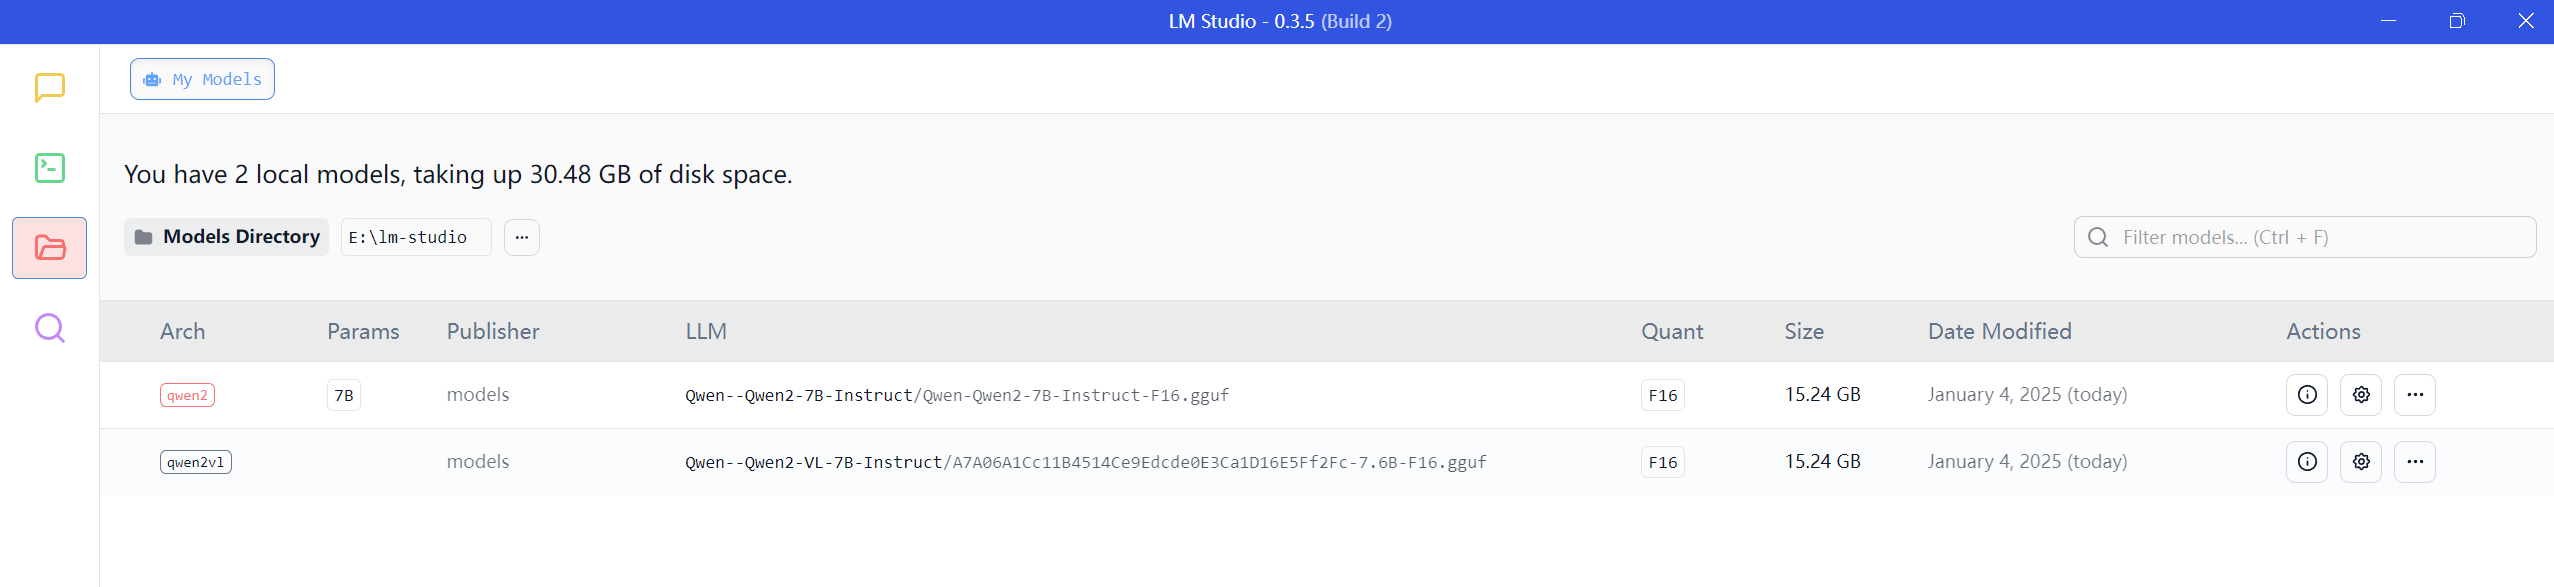
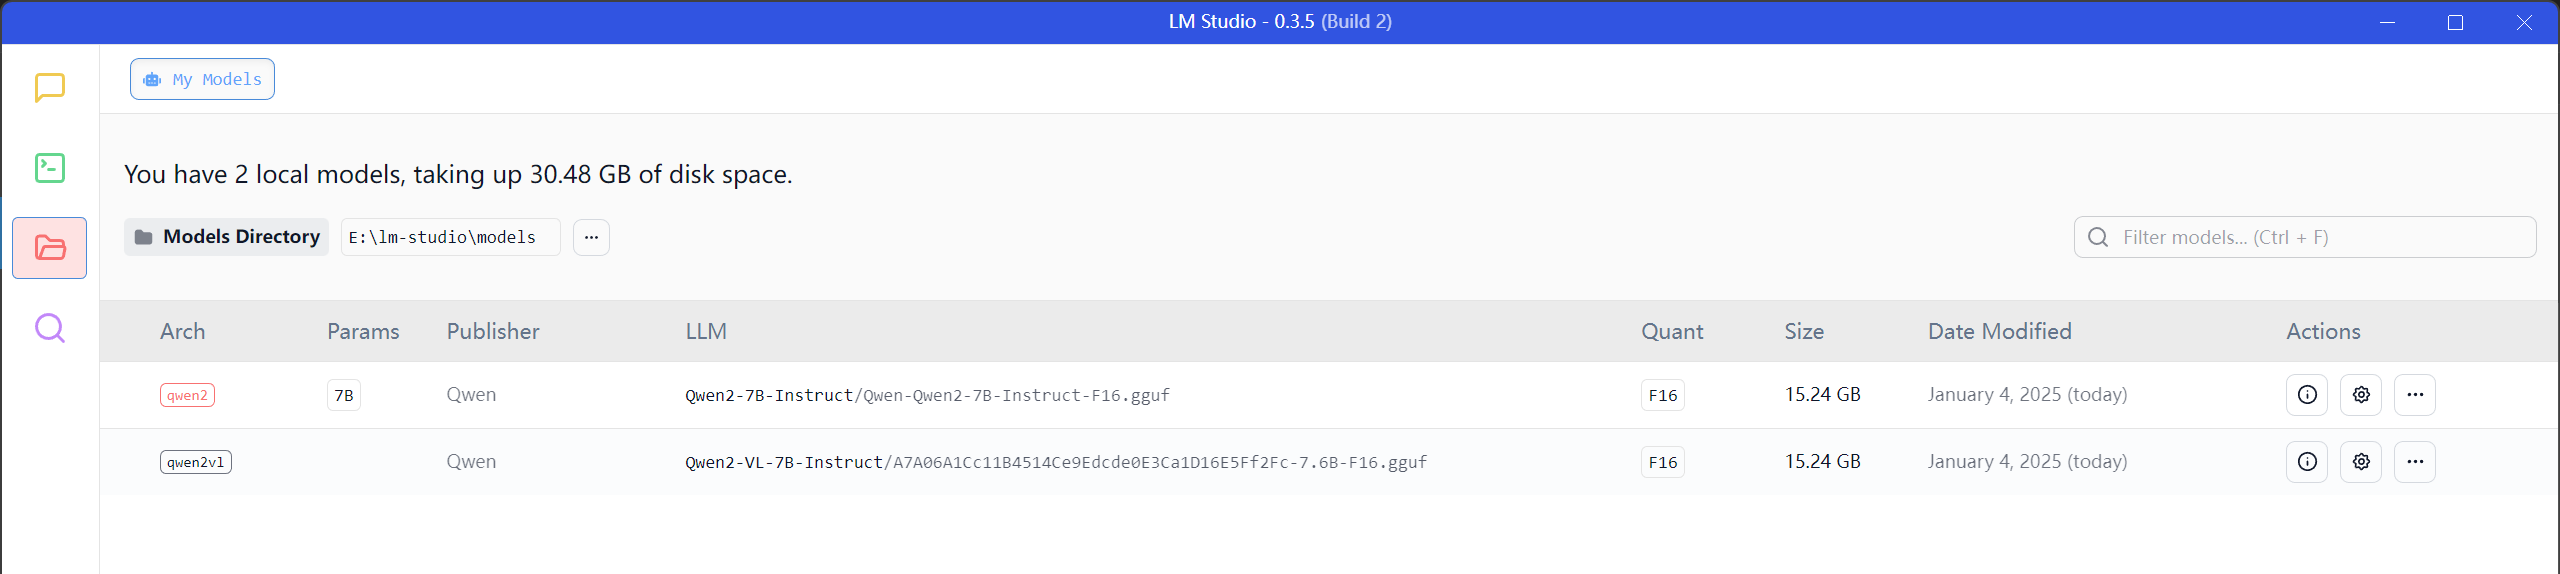
[PRO004] Run local LLMs via LM Studio

diff --git a/projects/pro004-lmstudio/README.md b/projects/pro004-lmstudio/README.md
@@ -14,7 +14,7 @@ $ pip install -U huggingface_hub
 ### 下载模型
 
 ```
-$ huggingface-cli download --resume-download Qwen/Qwen2-7B-Instruct --local-dir E:\lm-studio\models\Qwen--Qwen2-7B-Instruct
+$ huggingface-cli download --resume-download Qwen/Qwen2-7B-Instruct --local-dir E:\lm-studio\models\Qwen\Qwen2-7B-Instruct
 ```
 
 ## 使用 `llama.cpp` 转换格式
@@ -31,7 +31,7 @@ $ cd llama.cpp
 ### 转换为 GGUF 格式
 
 ```
-$ python .\convert_hf_to_gguf.py E:\lm-studio\models\Qwen--Qwen2-7B-Instruct
+$ python .\convert_hf_to_gguf.py E:\lm-studio\models\Qwen\Qwen2-7B-Instruct
 ```
 
 > Hugging Face 上有很多 GGUF 格式的模型，我们也可以直接下载使用，比如 [MaziyarPanahi/Qwen2-7B-Instruct-GGUF](https://huggingface.co/MaziyarPanahi/Qwen2-7B-Instruct-GGUF)。
@@ -80,5 +80,5 @@ $ cmake --build build --config Release
 编译后生成 `llama-cli.exe` 可执行文件，运行之：
 
 ```
-$ .\build\bin\Release\llama-cli.exe -m E:\lm-studio\models\Qwen--Qwen2-7B-Instruct\Qwen-Qwen2-7B-Instruct-F16.gguf -p "hello" -n 128
+$ .\build\bin\Release\llama-cli.exe -m E:\lm-studio\models\Qwen\Qwen2-7B-Instruct\Qwen-Qwen2-7B-Instruct-F16.gguf -p "hello" -n 128
 ```
